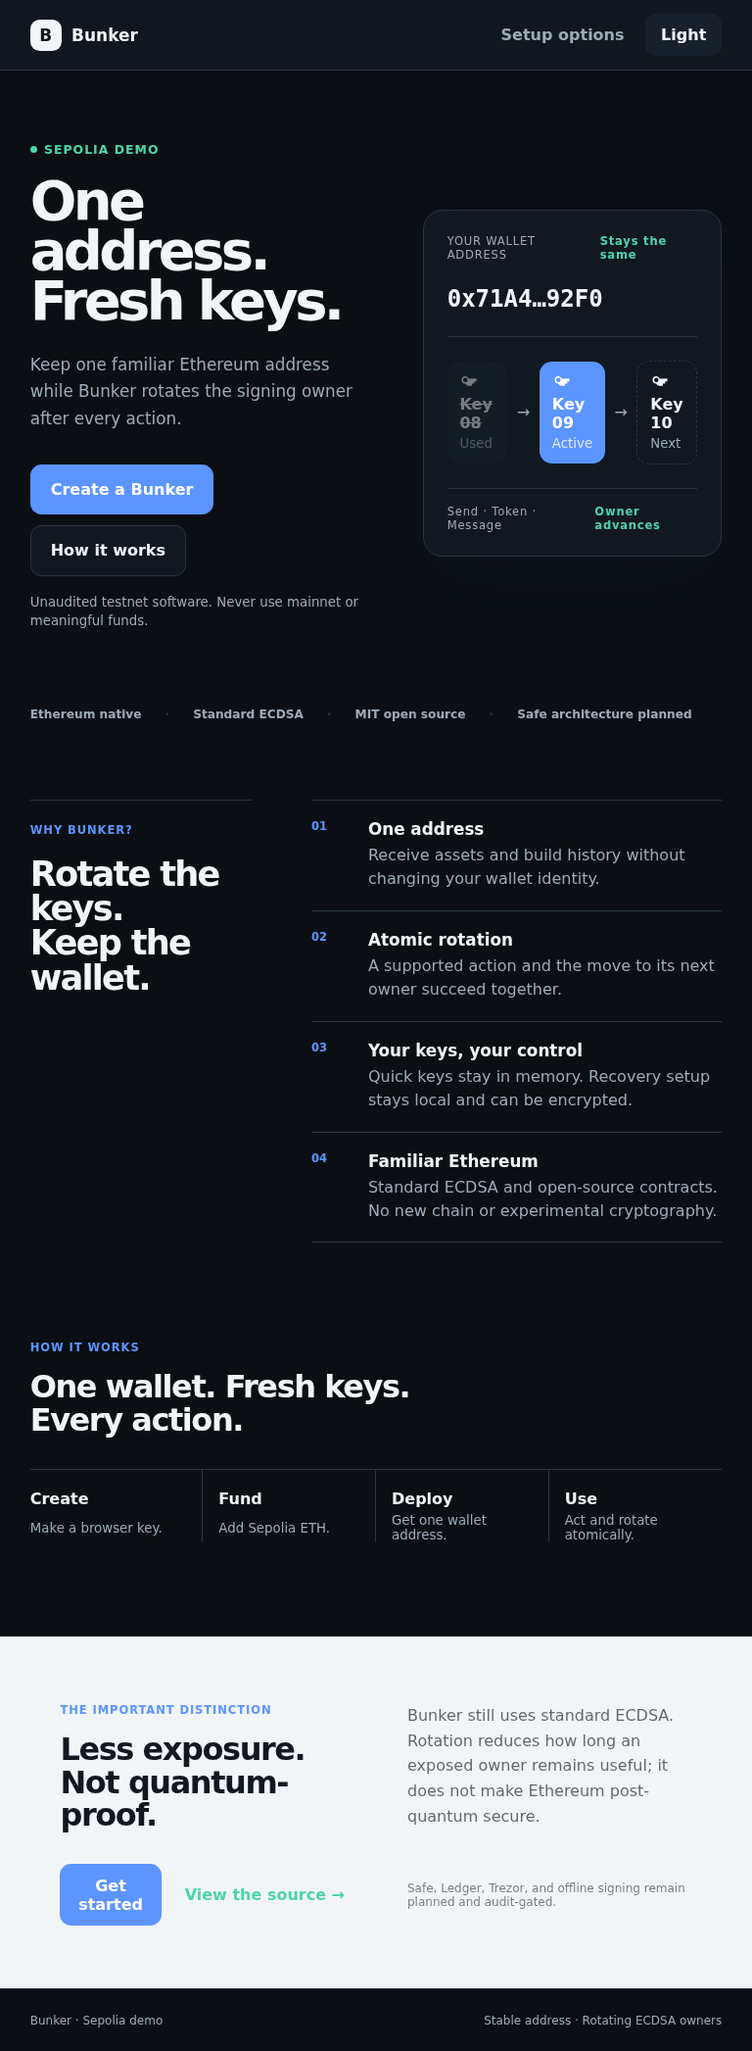
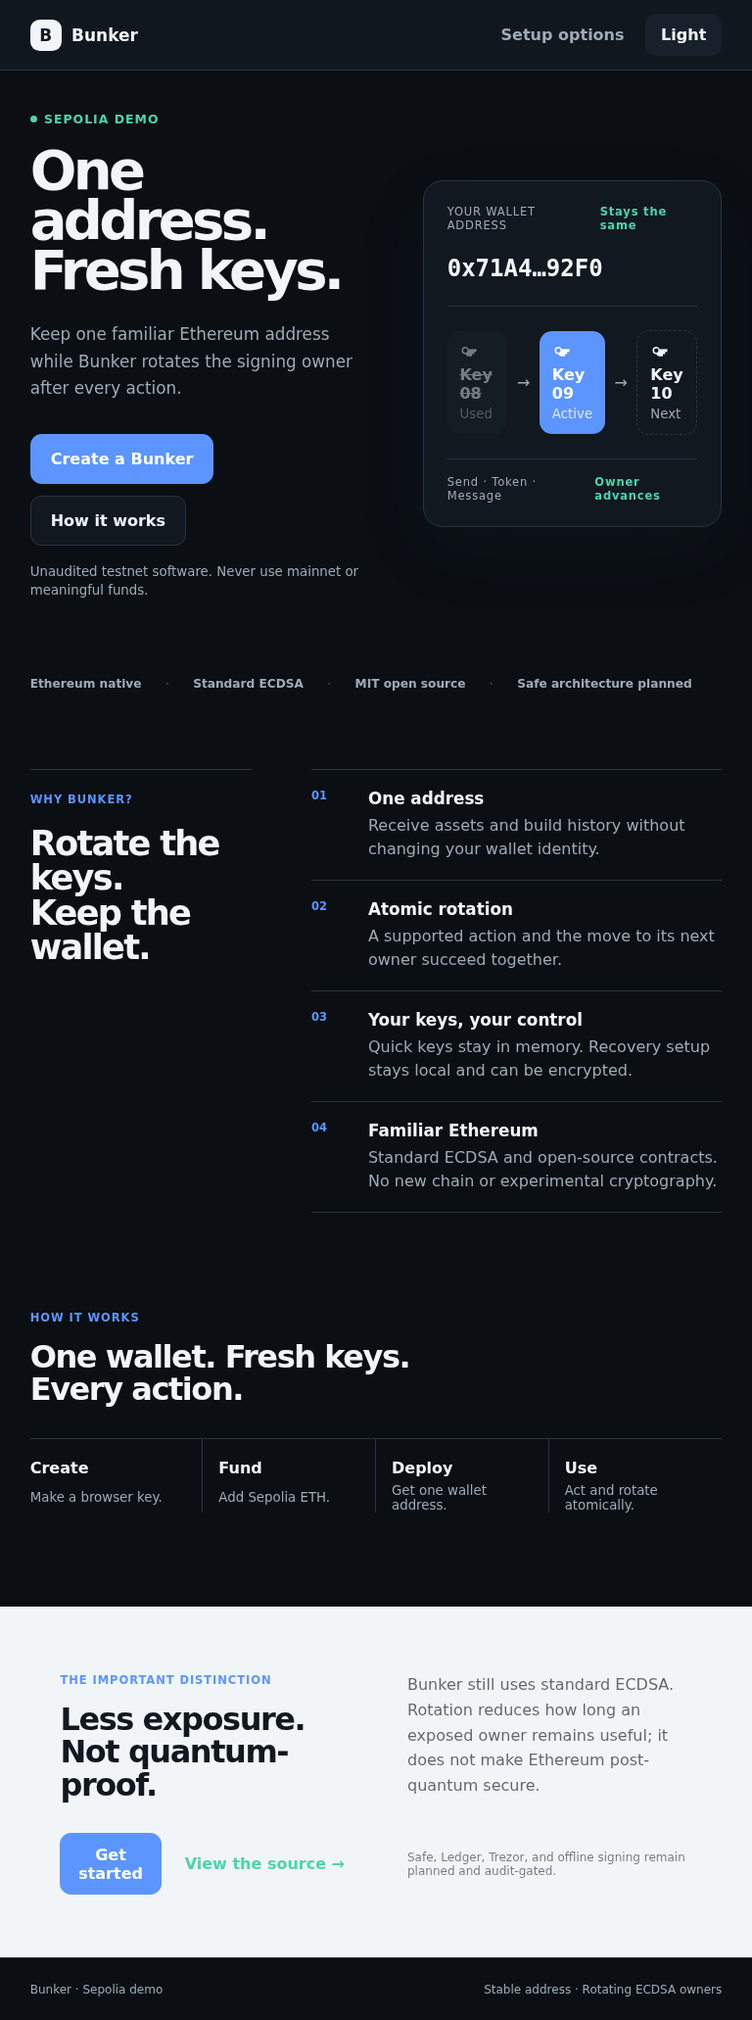
Tighten landing hero spacing

diff --git a/apps/web/src/styles.css b/apps/web/src/styles.css
@@ -1,1 +1,1 @@
-:root{font-family:ui-sans-serif,-apple-system,BlinkMacSystemFont,"Segoe UI",sans-serif;font-synthesis:none;color-scheme:light;background:#f5f7fa}*{box-sizing:border-box}body{margin:0}button,input,textarea{font:inherit}.site{--bg:#f5f7fa;--surface:#fff;--soft:#eef2f6;--line:#dce2e9;--text:#101820;--muted:#63707c;--accent:#146bff;--mint:#18b889;--ink:#fff;min-height:100vh;background:var(--bg);color:var(--text)}.site.dark{--bg:#0b0f14;--surface:#121820;--soft:#18212b;--line:#283442;--text:#f1f5f8;--muted:#9eabb7;--accent:#5c95ff;--mint:#4dd4aa;--ink:#071018;color-scheme:dark}::selection{background:var(--accent);color:#fff}button{border:1px solid var(--line);background:var(--surface);color:var(--text);border-radius:.7rem;padding:.72rem 1rem;font-weight:650;cursor:pointer}button:hover:not(:disabled){border-color:var(--accent)}button:disabled{opacity:.48;cursor:not-allowed}button:focus-visible,input:focus-visible,textarea:focus-visible,a:focus-visible{outline:3px solid var(--accent);outline-offset:2px}.primary{background:var(--accent);border-color:var(--accent);color:#fff}.wide{width:100%;padding:.95rem}.top{height:72px;display:flex;align-items:center;padding:0 clamp(1rem,4vw,4rem);border-bottom:1px solid var(--line);background:color-mix(in srgb,var(--surface),transparent 8%);position:relative;z-index:2}.brand{border:0;background:transparent;padding:0;display:flex;align-items:center;gap:.65rem;font-size:1.06rem}.brand span{display:grid;place-items:center;width:32px;height:32px;border-radius:.6rem;background:var(--text);color:var(--surface);font-weight:900}.top nav{margin-left:auto;display:flex;gap:.35rem}.top nav button{border:0;background:transparent;color:var(--muted)}.top nav button:hover{color:var(--text);background:var(--soft)}.toast{position:fixed;top:84px;left:50%;transform:translateX(-50%);z-index:10;background:var(--text);color:var(--surface);padding:.75rem 1rem;border-radius:2rem;box-shadow:0 12px 35px rgba(0,0,0,.16);font-size:.86rem;max-width:calc(100vw - 2rem)}main{min-height:calc(100vh - 136px)}.hero-new{max-width:1240px;margin:auto;padding:clamp(4rem,9vw,8rem) clamp(1rem,4vw,3rem) 5rem;display:grid;grid-template-columns:1fr .9fr;gap:clamp(3rem,8vw,8rem);align-items:center}.status-dot{display:inline-flex;align-items:center;gap:.45rem;color:var(--mint);font-size:.78rem;font-weight:750;text-transform:uppercase;letter-spacing:.08em}.status-dot:before{content:"";width:7px;height:7px;border-radius:50%;background:var(--mint)}h1,h2,p{margin-top:0}.hero-copy h1{font-size:clamp(3.5rem,7vw,6.8rem);line-height:.91;letter-spacing:-.065em;margin:1.25rem 0 1.6rem;max-width:10ch}.hero-copy>p{font-size:clamp(1.05rem,1.6vw,1.28rem);line-height:1.65;color:var(--muted);max-width:590px}.hero-actions,.secure-actions,.setup-actions{display:flex;gap:.7rem;flex-wrap:wrap;margin:2rem 0 1rem}.hero-actions button{padding:.95rem 1.25rem}.hero-copy>small{color:var(--muted)}.mechanism{background:var(--surface);border:1px solid var(--line);border-radius:1.25rem;padding:1.5rem;box-shadow:0 24px 70px rgba(34,51,68,.1)}.address-head,.action-line{display:flex;justify-content:space-between;gap:1rem;font-size:.72rem;color:var(--muted);letter-spacing:.07em}.address-head b,.action-line b{color:var(--mint)}.mechanism>code{display:block;font:700 clamp(1.5rem,3vw,2.5rem)/1 ui-monospace,SFMono-Regular,monospace;padding:1.6rem 0;border-bottom:1px solid var(--line)}.key-track{display:grid;grid-template-columns:1fr auto 1fr auto 1fr;align-items:center;gap:.6rem;padding:1.5rem 0}.key{display:grid;gap:.25rem;padding:.8rem;border-radius:.8rem;background:var(--soft)}.key svg{width:20px;fill:currentColor}.key span{font-weight:750}.key small{color:var(--muted)}.key.spent{opacity:.45}.key.spent span{text-decoration:line-through}.key.active{background:var(--accent);color:#fff}.key.active small{color:#dfeaff}.key.next{border:1px dashed var(--line);background:transparent}.key-track>i{font-style:normal;color:var(--muted)}.action-line{padding-top:1rem;border-top:1px solid var(--line)}.button-link{display:inline-flex;align-items:center;border:1px solid var(--line);background:var(--surface);color:var(--text);border-radius:.7rem;padding:.95rem 1.25rem;font-weight:650;text-decoration:none}.button-link:hover{border-color:var(--accent)}.trust-line{max-width:1240px;margin:auto;padding:0 clamp(1rem,4vw,3rem) 5rem;display:flex;gap:1.5rem;flex-wrap:wrap;color:var(--muted);font-size:.76rem;font-weight:700}.trust-line span+span:before{content:"·";margin-right:1.5rem;color:var(--line)}.why{max-width:1240px;margin:auto;padding:0 clamp(1rem,4vw,3rem) 6rem;display:grid;grid-template-columns:.7fr 1.3fr;gap:clamp(3rem,8vw,8rem)}.why-head{border-top:1px solid var(--line);padding-top:1.2rem}.why-head>span,.roadmap span{color:var(--accent);font-size:.72rem;font-weight:750;text-transform:uppercase;letter-spacing:.08em}.why-head h2{font-size:clamp(2.2rem,4vw,4.2rem);line-height:1;letter-spacing:-.05em;margin:1.2rem 0}.why-list{border-top:1px solid var(--line)}.why-list article{display:grid;grid-template-columns:42px 1fr;gap:1rem;padding:1.2rem 0;border-bottom:1px solid var(--line)}.why-list article>b{color:var(--accent);font-size:.72rem}.why-list h3{margin:0 0 .35rem;font-size:1.05rem}.why-list p{margin:0;color:var(--muted);line-height:1.5}.flow{max-width:1240px;margin:auto;padding:0 clamp(1rem,4vw,3rem) 6rem}.flow>span{color:var(--accent);font-size:.72rem;font-weight:750;text-transform:uppercase;letter-spacing:.08em}.flow h2{font-size:clamp(2rem,4vw,3.5rem);line-height:1.05;letter-spacing:-.045em;margin:1rem 0 2rem}.flow ol{list-style:none;margin:0;padding:0;display:grid;grid-template-columns:repeat(4,1fr);border-top:1px solid var(--line)}.flow li{padding:1.25rem 1rem 0 0;border-right:1px solid var(--line);display:grid;gap:.35rem}.flow li+li{padding-left:1rem}.flow li:last-child{border:0}.flow small{color:var(--muted)}.roadmap{background:var(--text);color:var(--surface);padding:4rem max(clamp(1rem,8vw,8rem),calc((100vw - 1240px)/2));display:grid;grid-template-columns:1fr 1fr;gap:2rem 4rem;align-items:center}.roadmap h2{font-size:clamp(2rem,4vw,3.5rem);line-height:1.05;letter-spacing:-.045em;margin:1rem 0 0}.roadmap p{color:color-mix(in srgb,var(--surface),transparent 35%);line-height:1.6;margin:0}.roadmap-links{display:flex;align-items:center;gap:1.5rem}.roadmap a{color:var(--mint);font-weight:750;text-decoration:none;white-space:nowrap}.roadmap>small{color:color-mix(in srgb,var(--surface),transparent 45%);grid-column:2;font-size:.75rem}.setup,.advanced,.secure{width:min(720px,calc(100% - 2rem));margin:auto;padding:clamp(3rem,8vw,7rem) 0}.ephemeral-note{font-size:.8rem;color:var(--muted);border-left:1px solid var(--mint);padding-left:.8rem}.setup h1,.advanced h1,.secure h1{font-size:clamp(2.5rem,6vw,4.8rem);line-height:.98;letter-spacing:-.05em;margin:2rem 0 1rem}.stepper{display:grid;grid-template-columns:repeat(3,1fr);position:relative}.stepper:before{content:"";position:absolute;left:2rem;right:2rem;top:17px;height:1px;background:var(--line)}.stepper span{position:relative;display:grid;justify-items:center;gap:.5rem;color:var(--muted);font-size:.72rem}.stepper span:first-letter{background:var(--surface)}.stepper span b{font-size:.8rem}.stepper span.done{color:var(--mint)}.setup-address,.stable{margin:2rem 0;background:var(--surface);border:1px solid var(--line);border-radius:1rem;padding:1rem;display:grid;grid-template-columns:1fr auto;gap:.65rem;align-items:center}.setup-address span,.stable span{font-size:.75rem;color:var(--muted)}.setup-address code,.stable code{grid-column:1/2;overflow-wrap:anywhere;color:var(--accent)}.setup-address button{grid-row:1/3;grid-column:2}.balance-row{display:flex;justify-content:space-between;border-block:1px solid var(--line);padding:1.2rem 0}.setup-actions button{flex:1}.text-button,.back{border:0;background:transparent;color:var(--muted);padding-left:0}.wallet{max-width:1180px;margin:auto;padding:clamp(2.5rem,6vw,5rem) 1rem}.wallet-top{display:grid;grid-template-columns:1fr 340px;gap:2rem;align-items:end}.wallet-top h1{font-size:clamp(3.5rem,7vw,6rem);letter-spacing:-.06em;margin:1rem 0 .5rem}.address-copy{border:0;padding-left:0;background:transparent;color:var(--muted)}.spendable{display:block;color:var(--muted);margin-bottom:.6rem}.rotation-card{background:var(--text);color:var(--surface);padding:1.4rem;border-radius:1rem}.rotation-card>span{font-size:.68rem;letter-spacing:.1em}.rotation-card strong{display:block;font-size:2rem;margin:.5rem 0}.rotation-card p{color:color-mix(in srgb,var(--surface),transparent 35%);font-size:.8rem}.rotation-card>div{height:5px;background:color-mix(in srgb,var(--surface),transparent 80%);border-radius:5px}.rotation-card i{display:block;height:100%;background:var(--mint);border-radius:5px}.stable{grid-template-columns:1fr auto}.stable b{grid-row:1/3;grid-column:2;color:var(--mint);font-size:.75rem}.wallet-grid{display:grid;grid-template-columns:1.25fr .75fr;gap:2rem;margin-top:2rem}.actions-panel,.activity{background:var(--surface);border:1px solid var(--line);border-radius:1rem;padding:1.4rem}.action-tabs{display:flex;gap:.4rem;border-bottom:1px solid var(--line);margin:-.3rem -.3rem 1.5rem;padding:0 .3rem 1rem}.action-tabs button{display:flex;gap:.4rem;align-items:center;border:0;background:transparent;color:var(--muted)}.action-tabs button.active{background:var(--soft);color:var(--text)}svg{width:18px;height:18px;fill:currentColor}.actions-panel h2,.activity h2{font-size:1.15rem}.actions-panel label{display:grid;gap:.45rem;margin:1rem 0;color:var(--muted);font-size:.78rem}.actions-panel input,.actions-panel textarea,.secure input,.secure textarea{width:100%;border:1px solid var(--line);background:var(--bg);color:var(--text);padding:.85rem;border-radius:.65rem}.split{display:grid;grid-template-columns:1fr 110px;gap:.7rem}.activity-row{display:grid;grid-template-columns:auto 1fr auto;gap:.8rem;align-items:start;padding:1rem 0;border-top:1px solid var(--line)}.activity-row>span{font-size:.65rem;background:var(--soft);padding:.3rem .45rem;border-radius:1rem;color:var(--muted)}.activity-row p{display:grid;gap:.25rem;margin:0}.activity-row small{color:var(--muted)}.activity-row a{color:var(--accent);font-size:.75rem}.option-list{display:grid;margin-top:2.5rem;border-top:1px solid var(--line)}.option-list button{border:0;border-bottom:1px solid var(--line);border-radius:0;background:transparent;display:grid;grid-template-columns:1fr auto;text-align:left;padding:1.2rem 0}.option-list button span{font-size:1rem}.option-list button small{grid-row:2;color:var(--muted);font-weight:400}.option-list button b{grid-row:1/3;grid-column:2;align-self:center;color:var(--accent)}.words{list-style:none;display:grid;grid-template-columns:repeat(4,1fr);gap:1px;background:var(--line);padding:1px;margin:2rem 0}.words li{background:var(--surface);padding:.8rem;font-weight:700}.words span{display:block;color:var(--muted);font-size:.65rem}.check{display:flex;gap:.6rem;align-items:center;color:var(--muted)}.check input{width:auto}.confirm{display:grid;grid-template-columns:repeat(3,1fr);gap:.7rem}.secure label{display:grid;gap:.45rem;margin:1rem 0;color:var(--muted);font-size:.8rem}footer{height:64px;border-top:1px solid var(--line);display:flex;justify-content:space-between;align-items:center;padding:0 clamp(1rem,4vw,4rem);color:var(--muted);font-size:.75rem}@media(max-width:760px){.top{height:64px}.top nav button:not(.theme){display:none}.hero-new{grid-template-columns:1fr;padding-top:3rem;gap:3rem}.hero-copy h1{font-size:3.8rem}.hero-actions{display:grid}.mechanism{padding:1rem}.key-track{gap:.3rem}.key{padding:.55rem}.key-track>i{display:none}.trust-line{display:grid;grid-template-columns:1fr 1fr;gap:.65rem 1rem}.trust-line span+span:before{content:none}.why{grid-template-columns:1fr;gap:1.5rem}.flow ol{grid-template-columns:1fr 1fr}.flow li{border-bottom:1px solid var(--line);border-right:0;padding:1rem 0}.flow li+li{padding-left:0}.roadmap{grid-template-columns:1fr;gap:1.5rem}.roadmap a{white-space:normal}.roadmap>small{grid-column:1}.wallet-top,.wallet-grid{grid-template-columns:1fr}.stable{grid-template-columns:1fr}.stable b{grid-row:auto;grid-column:1}.words{grid-template-columns:repeat(3,1fr)}.confirm{grid-template-columns:1fr}.setup-actions,.secure-actions{display:grid}.action-tabs button{padding:.65rem}.toast{top:72px}}@media(prefers-reduced-motion:reduce){*{scroll-behavior:auto!important;transition:none!important}}
+:root{font-family:ui-sans-serif,-apple-system,BlinkMacSystemFont,"Segoe UI",sans-serif;font-synthesis:none;color-scheme:light;background:#f5f7fa}*{box-sizing:border-box}body{margin:0}button,input,textarea{font:inherit}.site{--bg:#f5f7fa;--surface:#fff;--soft:#eef2f6;--line:#dce2e9;--text:#101820;--muted:#63707c;--accent:#146bff;--mint:#18b889;--ink:#fff;min-height:100vh;background:var(--bg);color:var(--text)}.site.dark{--bg:#0b0f14;--surface:#121820;--soft:#18212b;--line:#283442;--text:#f1f5f8;--muted:#9eabb7;--accent:#5c95ff;--mint:#4dd4aa;--ink:#071018;color-scheme:dark}::selection{background:var(--accent);color:#fff}button{border:1px solid var(--line);background:var(--surface);color:var(--text);border-radius:.7rem;padding:.72rem 1rem;font-weight:650;cursor:pointer}button:hover:not(:disabled){border-color:var(--accent)}button:disabled{opacity:.48;cursor:not-allowed}button:focus-visible,input:focus-visible,textarea:focus-visible,a:focus-visible{outline:3px solid var(--accent);outline-offset:2px}.primary{background:var(--accent);border-color:var(--accent);color:#fff}.wide{width:100%;padding:.95rem}.top{height:72px;display:flex;align-items:center;padding:0 clamp(1rem,4vw,4rem);border-bottom:1px solid var(--line);background:color-mix(in srgb,var(--surface),transparent 8%);position:relative;z-index:2}.brand{border:0;background:transparent;padding:0;display:flex;align-items:center;gap:.65rem;font-size:1.06rem}.brand span{display:grid;place-items:center;width:32px;height:32px;border-radius:.6rem;background:var(--text);color:var(--surface);font-weight:900}.top nav{margin-left:auto;display:flex;gap:.35rem}.top nav button{border:0;background:transparent;color:var(--muted)}.top nav button:hover{color:var(--text);background:var(--soft)}.toast{position:fixed;top:84px;left:50%;transform:translateX(-50%);z-index:10;background:var(--text);color:var(--surface);padding:.75rem 1rem;border-radius:2rem;box-shadow:0 12px 35px rgba(0,0,0,.16);font-size:.86rem;max-width:calc(100vw - 2rem)}main{min-height:calc(100vh - 136px)}.hero-new{max-width:1240px;margin:auto;padding:clamp(2rem,5vw,4.5rem) clamp(1rem,4vw,3rem) 5rem;display:grid;grid-template-columns:1fr .9fr;gap:clamp(3rem,8vw,8rem);align-items:center}.status-dot{display:inline-flex;align-items:center;gap:.45rem;color:var(--mint);font-size:.78rem;font-weight:750;text-transform:uppercase;letter-spacing:.08em}.status-dot:before{content:"";width:7px;height:7px;border-radius:50%;background:var(--mint)}h1,h2,p{margin-top:0}.hero-copy h1{font-size:clamp(3.5rem,7vw,6.8rem);line-height:.91;letter-spacing:-.065em;margin:1.25rem 0 1.6rem;max-width:10ch}.hero-copy>p{font-size:clamp(1.05rem,1.6vw,1.28rem);line-height:1.65;color:var(--muted);max-width:590px}.hero-actions,.secure-actions,.setup-actions{display:flex;gap:.7rem;flex-wrap:wrap;margin:2rem 0 1rem}.hero-actions button{padding:.95rem 1.25rem}.hero-copy>small{color:var(--muted)}.mechanism{background:var(--surface);border:1px solid var(--line);border-radius:1.25rem;padding:1.5rem;box-shadow:0 24px 70px rgba(34,51,68,.1)}.address-head,.action-line{display:flex;justify-content:space-between;gap:1rem;font-size:.72rem;color:var(--muted);letter-spacing:.07em}.address-head b,.action-line b{color:var(--mint)}.mechanism>code{display:block;font:700 clamp(1.5rem,3vw,2.5rem)/1 ui-monospace,SFMono-Regular,monospace;padding:1.6rem 0;border-bottom:1px solid var(--line)}.key-track{display:grid;grid-template-columns:1fr auto 1fr auto 1fr;align-items:center;gap:.6rem;padding:1.5rem 0}.key{display:grid;gap:.25rem;padding:.8rem;border-radius:.8rem;background:var(--soft)}.key svg{width:20px;fill:currentColor}.key span{font-weight:750}.key small{color:var(--muted)}.key.spent{opacity:.45}.key.spent span{text-decoration:line-through}.key.active{background:var(--accent);color:#fff}.key.active small{color:#dfeaff}.key.next{border:1px dashed var(--line);background:transparent}.key-track>i{font-style:normal;color:var(--muted)}.action-line{padding-top:1rem;border-top:1px solid var(--line)}.button-link{display:inline-flex;align-items:center;border:1px solid var(--line);background:var(--surface);color:var(--text);border-radius:.7rem;padding:.95rem 1.25rem;font-weight:650;text-decoration:none}.button-link:hover{border-color:var(--accent)}.trust-line{max-width:1240px;margin:auto;padding:0 clamp(1rem,4vw,3rem) 5rem;display:flex;gap:1.5rem;flex-wrap:wrap;color:var(--muted);font-size:.76rem;font-weight:700}.trust-line span+span:before{content:"·";margin-right:1.5rem;color:var(--line)}.why{max-width:1240px;margin:auto;padding:0 clamp(1rem,4vw,3rem) 6rem;display:grid;grid-template-columns:.7fr 1.3fr;gap:clamp(3rem,8vw,8rem)}.why-head{border-top:1px solid var(--line);padding-top:1.2rem}.why-head>span,.roadmap span{color:var(--accent);font-size:.72rem;font-weight:750;text-transform:uppercase;letter-spacing:.08em}.why-head h2{font-size:clamp(2.2rem,4vw,4.2rem);line-height:1;letter-spacing:-.05em;margin:1.2rem 0}.why-list{border-top:1px solid var(--line)}.why-list article{display:grid;grid-template-columns:42px 1fr;gap:1rem;padding:1.2rem 0;border-bottom:1px solid var(--line)}.why-list article>b{color:var(--accent);font-size:.72rem}.why-list h3{margin:0 0 .35rem;font-size:1.05rem}.why-list p{margin:0;color:var(--muted);line-height:1.5}.flow{max-width:1240px;margin:auto;padding:0 clamp(1rem,4vw,3rem) 6rem}.flow>span{color:var(--accent);font-size:.72rem;font-weight:750;text-transform:uppercase;letter-spacing:.08em}.flow h2{font-size:clamp(2rem,4vw,3.5rem);line-height:1.05;letter-spacing:-.045em;margin:1rem 0 2rem}.flow ol{list-style:none;margin:0;padding:0;display:grid;grid-template-columns:repeat(4,1fr);border-top:1px solid var(--line)}.flow li{padding:1.25rem 1rem 0 0;border-right:1px solid var(--line);display:grid;gap:.35rem}.flow li+li{padding-left:1rem}.flow li:last-child{border:0}.flow small{color:var(--muted)}.roadmap{background:var(--text);color:var(--surface);padding:4rem max(clamp(1rem,8vw,8rem),calc((100vw - 1240px)/2));display:grid;grid-template-columns:1fr 1fr;gap:2rem 4rem;align-items:center}.roadmap h2{font-size:clamp(2rem,4vw,3.5rem);line-height:1.05;letter-spacing:-.045em;margin:1rem 0 0}.roadmap p{color:color-mix(in srgb,var(--surface),transparent 35%);line-height:1.6;margin:0}.roadmap-links{display:flex;align-items:center;gap:1.5rem}.roadmap a{color:var(--mint);font-weight:750;text-decoration:none;white-space:nowrap}.roadmap>small{color:color-mix(in srgb,var(--surface),transparent 45%);grid-column:2;font-size:.75rem}.setup,.advanced,.secure{width:min(720px,calc(100% - 2rem));margin:auto;padding:clamp(3rem,8vw,7rem) 0}.ephemeral-note{font-size:.8rem;color:var(--muted);border-left:1px solid var(--mint);padding-left:.8rem}.setup h1,.advanced h1,.secure h1{font-size:clamp(2.5rem,6vw,4.8rem);line-height:.98;letter-spacing:-.05em;margin:2rem 0 1rem}.stepper{display:grid;grid-template-columns:repeat(3,1fr);position:relative}.stepper:before{content:"";position:absolute;left:2rem;right:2rem;top:17px;height:1px;background:var(--line)}.stepper span{position:relative;display:grid;justify-items:center;gap:.5rem;color:var(--muted);font-size:.72rem}.stepper span:first-letter{background:var(--surface)}.stepper span b{font-size:.8rem}.stepper span.done{color:var(--mint)}.setup-address,.stable{margin:2rem 0;background:var(--surface);border:1px solid var(--line);border-radius:1rem;padding:1rem;display:grid;grid-template-columns:1fr auto;gap:.65rem;align-items:center}.setup-address span,.stable span{font-size:.75rem;color:var(--muted)}.setup-address code,.stable code{grid-column:1/2;overflow-wrap:anywhere;color:var(--accent)}.setup-address button{grid-row:1/3;grid-column:2}.balance-row{display:flex;justify-content:space-between;border-block:1px solid var(--line);padding:1.2rem 0}.setup-actions button{flex:1}.text-button,.back{border:0;background:transparent;color:var(--muted);padding-left:0}.wallet{max-width:1180px;margin:auto;padding:clamp(2.5rem,6vw,5rem) 1rem}.wallet-top{display:grid;grid-template-columns:1fr 340px;gap:2rem;align-items:end}.wallet-top h1{font-size:clamp(3.5rem,7vw,6rem);letter-spacing:-.06em;margin:1rem 0 .5rem}.address-copy{border:0;padding-left:0;background:transparent;color:var(--muted)}.spendable{display:block;color:var(--muted);margin-bottom:.6rem}.rotation-card{background:var(--text);color:var(--surface);padding:1.4rem;border-radius:1rem}.rotation-card>span{font-size:.68rem;letter-spacing:.1em}.rotation-card strong{display:block;font-size:2rem;margin:.5rem 0}.rotation-card p{color:color-mix(in srgb,var(--surface),transparent 35%);font-size:.8rem}.rotation-card>div{height:5px;background:color-mix(in srgb,var(--surface),transparent 80%);border-radius:5px}.rotation-card i{display:block;height:100%;background:var(--mint);border-radius:5px}.stable{grid-template-columns:1fr auto}.stable b{grid-row:1/3;grid-column:2;color:var(--mint);font-size:.75rem}.wallet-grid{display:grid;grid-template-columns:1.25fr .75fr;gap:2rem;margin-top:2rem}.actions-panel,.activity{background:var(--surface);border:1px solid var(--line);border-radius:1rem;padding:1.4rem}.action-tabs{display:flex;gap:.4rem;border-bottom:1px solid var(--line);margin:-.3rem -.3rem 1.5rem;padding:0 .3rem 1rem}.action-tabs button{display:flex;gap:.4rem;align-items:center;border:0;background:transparent;color:var(--muted)}.action-tabs button.active{background:var(--soft);color:var(--text)}svg{width:18px;height:18px;fill:currentColor}.actions-panel h2,.activity h2{font-size:1.15rem}.actions-panel label{display:grid;gap:.45rem;margin:1rem 0;color:var(--muted);font-size:.78rem}.actions-panel input,.actions-panel textarea,.secure input,.secure textarea{width:100%;border:1px solid var(--line);background:var(--bg);color:var(--text);padding:.85rem;border-radius:.65rem}.split{display:grid;grid-template-columns:1fr 110px;gap:.7rem}.activity-row{display:grid;grid-template-columns:auto 1fr auto;gap:.8rem;align-items:start;padding:1rem 0;border-top:1px solid var(--line)}.activity-row>span{font-size:.65rem;background:var(--soft);padding:.3rem .45rem;border-radius:1rem;color:var(--muted)}.activity-row p{display:grid;gap:.25rem;margin:0}.activity-row small{color:var(--muted)}.activity-row a{color:var(--accent);font-size:.75rem}.option-list{display:grid;margin-top:2.5rem;border-top:1px solid var(--line)}.option-list button{border:0;border-bottom:1px solid var(--line);border-radius:0;background:transparent;display:grid;grid-template-columns:1fr auto;text-align:left;padding:1.2rem 0}.option-list button span{font-size:1rem}.option-list button small{grid-row:2;color:var(--muted);font-weight:400}.option-list button b{grid-row:1/3;grid-column:2;align-self:center;color:var(--accent)}.words{list-style:none;display:grid;grid-template-columns:repeat(4,1fr);gap:1px;background:var(--line);padding:1px;margin:2rem 0}.words li{background:var(--surface);padding:.8rem;font-weight:700}.words span{display:block;color:var(--muted);font-size:.65rem}.check{display:flex;gap:.6rem;align-items:center;color:var(--muted)}.check input{width:auto}.confirm{display:grid;grid-template-columns:repeat(3,1fr);gap:.7rem}.secure label{display:grid;gap:.45rem;margin:1rem 0;color:var(--muted);font-size:.8rem}footer{height:64px;border-top:1px solid var(--line);display:flex;justify-content:space-between;align-items:center;padding:0 clamp(1rem,4vw,4rem);color:var(--muted);font-size:.75rem}@media(max-width:760px){.top{height:64px}.top nav button:not(.theme){display:none}.hero-new{grid-template-columns:1fr;padding-top:1.5rem;gap:3rem}.hero-copy h1{font-size:3.8rem}.hero-actions{display:grid}.mechanism{padding:1rem}.key-track{gap:.3rem}.key{padding:.55rem}.key-track>i{display:none}.trust-line{display:grid;grid-template-columns:1fr 1fr;gap:.65rem 1rem}.trust-line span+span:before{content:none}.why{grid-template-columns:1fr;gap:1.5rem}.flow ol{grid-template-columns:1fr 1fr}.flow li{border-bottom:1px solid var(--line);border-right:0;padding:1rem 0}.flow li+li{padding-left:0}.roadmap{grid-template-columns:1fr;gap:1.5rem}.roadmap a{white-space:normal}.roadmap>small{grid-column:1}.wallet-top,.wallet-grid{grid-template-columns:1fr}.stable{grid-template-columns:1fr}.stable b{grid-row:auto;grid-column:1}.words{grid-template-columns:repeat(3,1fr)}.confirm{grid-template-columns:1fr}.setup-actions,.secure-actions{display:grid}.action-tabs button{padding:.65rem}.toast{top:72px}}@media(prefers-reduced-motion:reduce){*{scroll-behavior:auto!important;transition:none!important}}
